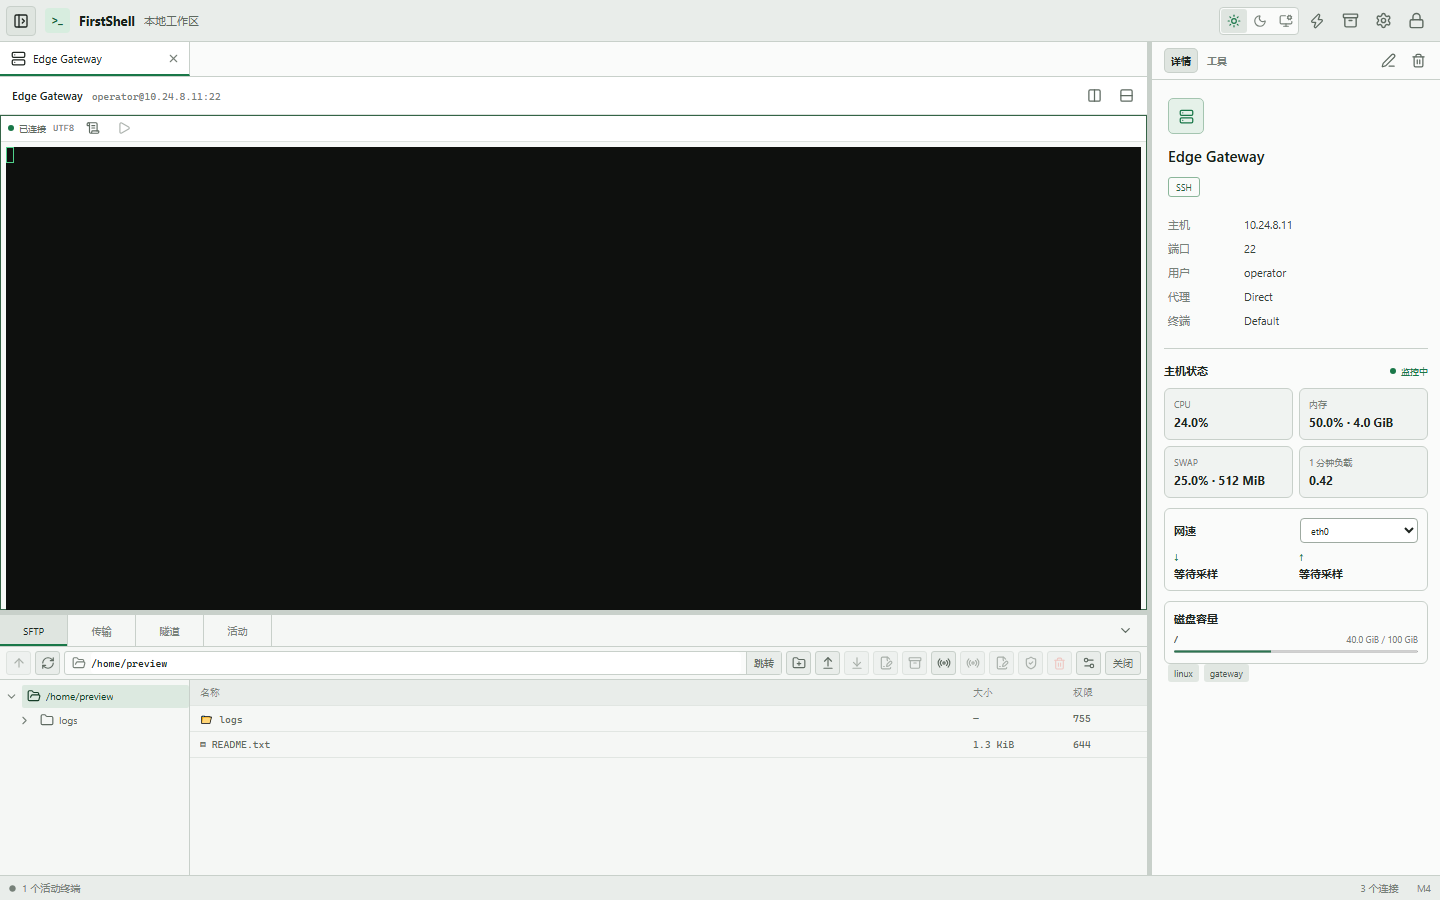
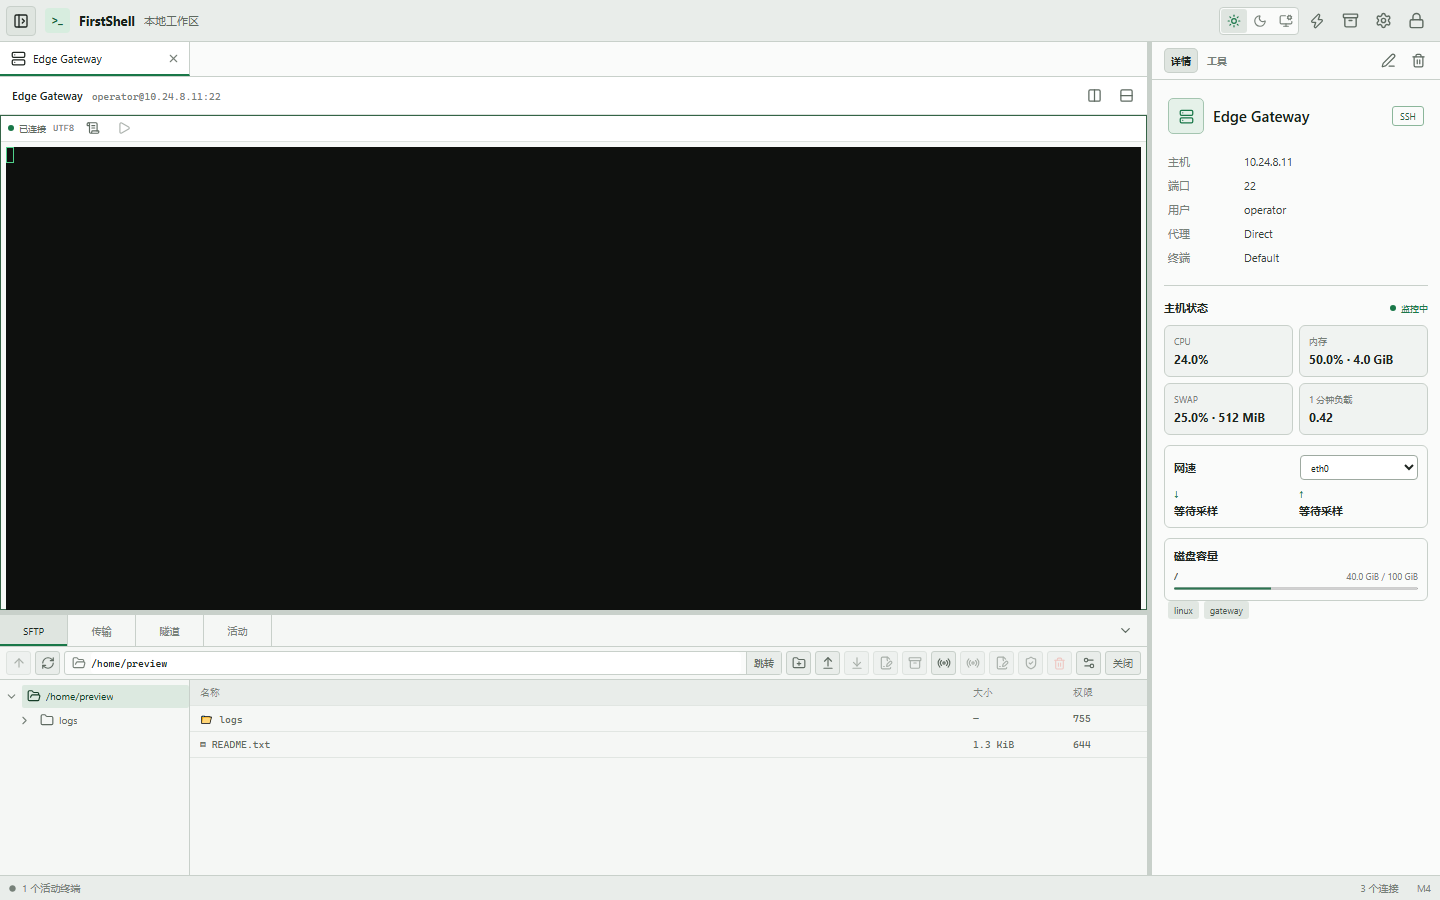
fix: align connection identity header

Changed region(s): [[0.8125, 0.1244, 1.0, 0.7778], [0.9688, 0.3422, 1.0, 0.3733]]

diff --git a/apps/desktop/src/main.tsx b/apps/desktop/src/main.tsx
@@ -575,7 +575,7 @@ function WorkspaceOverview({ snapshot }: { snapshot: WorkspaceSnapshot }) {
 
 function Inspector({ folder, connection, snapshot, connected, monitorView, onApproveMonitor }: { folder?: Folder; connection?: ConnectionProfile; snapshot: WorkspaceSnapshot; connected: boolean; monitorView?: AutoMonitorView; onApproveMonitor(): void }) {
   if (folder) return <div className="inspector-content"><div className="inspector-icon"><FolderIcon size={20} /></div><h2>{folder.name}</h2><dl><dt>上级</dt><dd>{snapshot.folders.find((value) => value.id === folder.parentId)?.name ?? "根目录"}</dd><dt>连接</dt><dd>{snapshot.connections.filter((value) => value.folderId === folder.id).length}</dd><dt>修订</dt><dd>{folder.revision}</dd></dl>{folder.notes && <p>{folder.notes}</p>}</div>;
-  if (connection) return <div className="inspector-content"><div className="inspector-icon"><ConnectionIcon kind={connection.kind} /></div><h2>{connection.name}</h2><div className="kind-badge">{connection.kind.toUpperCase()}</div><dl><dt>主机</dt><dd>{connection.host || "Local"}</dd><dt>端口</dt><dd>{connection.port || "-"}</dd><dt>用户</dt><dd>{connection.username || "-"}</dd><dt>代理</dt><dd>{snapshot.proxies.find((value) => value.id === connection.proxyId)?.name ?? "Direct"}</dd><dt>终端</dt><dd>{snapshot.terminalProfiles.find((value) => value.id === connection.terminalProfileId)?.name ?? snapshot.terminalProfiles[0]?.name ?? "默认"}</dd></dl>{connection.kind === "ssh" && !connection.temporary && <HostMonitorPanel connected={connected} view={monitorView} onApprove={onApproveMonitor} />}{connection.tags.length > 0 && <div className="tag-list">{connection.tags.map((tag) => <span key={tag}>{tag}</span>)}</div>}{connection.notes && <p>{connection.notes}</p>}</div>;
+  if (connection) return <div className="inspector-content"><div className="inspector-identity"><div className="inspector-icon"><ConnectionIcon kind={connection.kind} /></div><h2 title={connection.name}>{connection.name}</h2><div className="kind-badge">{connection.kind.toUpperCase()}</div></div><dl><dt>主机</dt><dd>{connection.host || "Local"}</dd><dt>端口</dt><dd>{connection.port || "-"}</dd><dt>用户</dt><dd>{connection.username || "-"}</dd><dt>代理</dt><dd>{snapshot.proxies.find((value) => value.id === connection.proxyId)?.name ?? "Direct"}</dd><dt>终端</dt><dd>{snapshot.terminalProfiles.find((value) => value.id === connection.terminalProfileId)?.name ?? snapshot.terminalProfiles[0]?.name ?? "默认"}</dd></dl>{connection.kind === "ssh" && !connection.temporary && <HostMonitorPanel connected={connected} view={monitorView} onApprove={onApproveMonitor} />}{connection.tags.length > 0 && <div className="tag-list">{connection.tags.map((tag) => <span key={tag}>{tag}</span>)}</div>}{connection.notes && <p>{connection.notes}</p>}</div>;
   return <div className="inspector-empty"><MoreHorizontal size={20} /><span>未选择项目</span></div>;
 }
 

diff --git a/apps/desktop/src/styles.css b/apps/desktop/src/styles.css
@@ -482,6 +482,10 @@ button.sftp-row:hover, button.sftp-row.selected { background: #253028; color: va
 .inspector-content { min-height: 0; padding: 18px 16px; overflow: auto; }
 .inspector-icon { display: grid; place-items: center; width: 36px; height: 36px; border: 1px solid #3b5c47; border-radius: 5px; background: #1c3023; color: var(--accent); }
 .inspector-content h2 { margin: 12px 0 8px; overflow-wrap: anywhere; color: #e7ebe7; font-size: 15px; font-weight: 600; }
+.inspector-identity { display: flex; min-width: 0; align-items: center; gap: 9px; }
+.inspector-identity .inspector-icon { flex: 0 0 36px; }
+.inspector-identity h2 { min-width: 0; flex: 1; margin: 0; overflow: hidden; text-overflow: ellipsis; white-space: nowrap; }
+.inspector-identity .kind-badge { flex: 0 0 auto; }
 .kind-badge { display: inline-flex; align-items: center; height: 20px; padding: 0 7px; border: 1px solid #41614c; border-radius: 3px; color: #9fc9ab; font-size: 9px; }
 .inspector-content dl { display: grid; grid-template-columns: 66px minmax(0, 1fr); gap: 9px 10px; margin: 20px 0; font-size: 11px; }
 .inspector-content dt { color: var(--subtle); }

diff --git a/apps/desktop/src/main.test.tsx b/apps/desktop/src/main.test.tsx
@@ -161,6 +161,9 @@ describe("M1 workspace accessibility and vault state", () => {
     render(<App bridge={bridge} />);
 
     await user.click(await screen.findByRole("treeitem", { name: /^Edge Gateway/ }));
+    const identity = screen.getByRole("heading", { name: "Edge Gateway" }).parentElement;
+    expect(identity?.classList.contains("inspector-identity")).toBe(true);
+    expect(identity?.textContent).toContain("SSH");
     expect(screen.getByText("终端连接后自动启动低开销监控")).toBeTruthy();
     await user.click(await screen.findByRole("button", { name: "模拟终端就绪" }));
 
